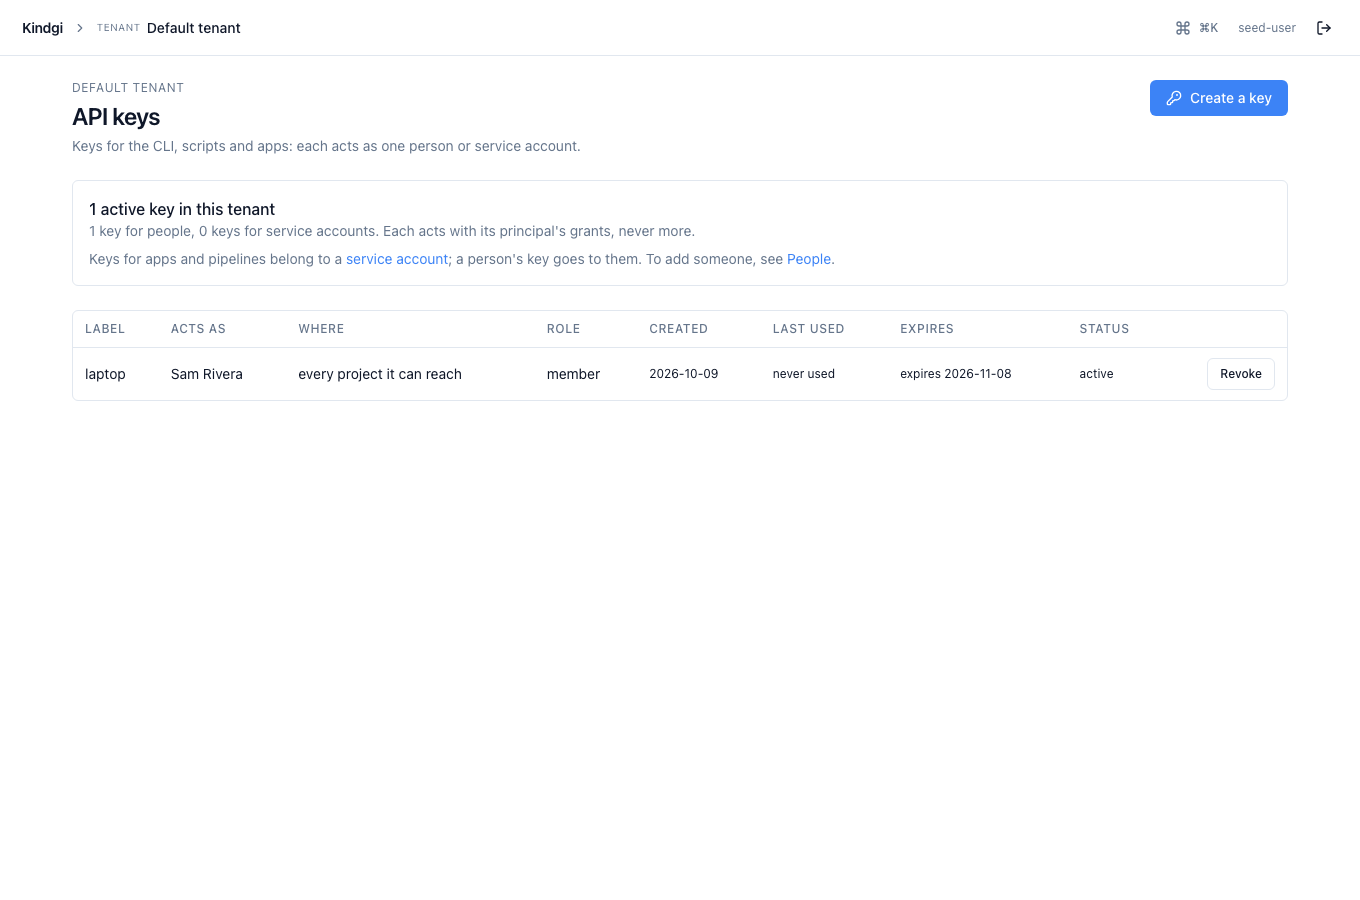
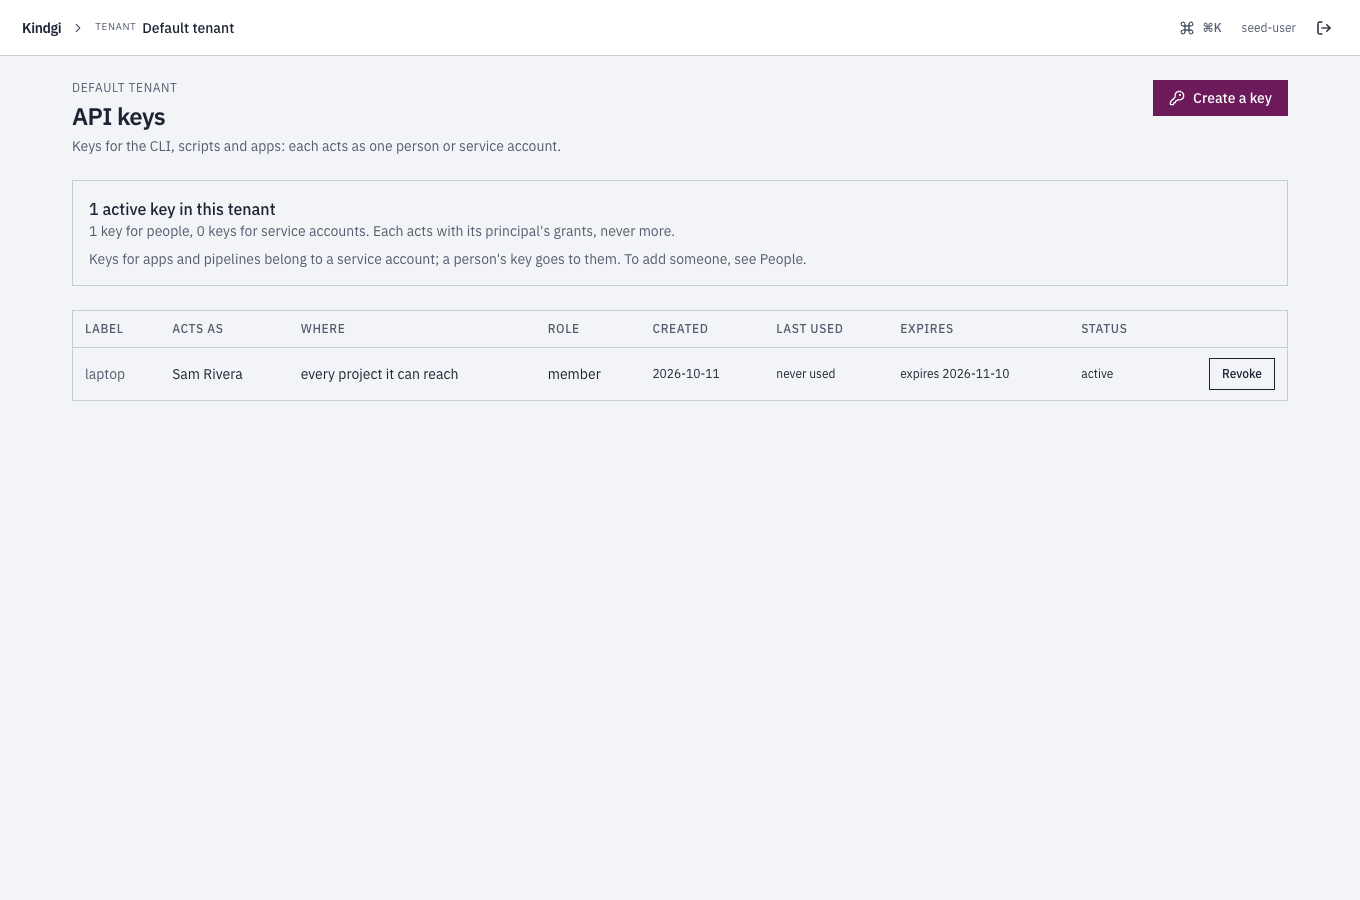
docs: the console's screenshots in its 0.1.6 look
The People, API keys and Service accounts pages and the seven sign-in
pages, retaken in the console's light theme. The People page's alt text
and bullet name its search, removed people and Columns; the emailed
link's shot is for an address the link is offered to.

diff --git a/site/src/content/docs/deploy/people-and-keys.md b/site/src/content/docs/deploy/people-and-keys.md
@@ -315,10 +315,13 @@ It's refused for yourself and for the seed user
   Copy button.
 
   ![The API keys page: one key, labelled laptop, acting as Sam Rivera with the member role, never used, expiring a month after it was made, with a Revoke button.](../../../assets/people/api-keys.png)
-- **People** (tenant admins): **Add a person**, each person's roles in words,
-  making or unmaking a tenant admin, a key for them, and removing them.
+- **People** (tenant admins): **Add a person**, each person's access in words
+  (what they were granted directly: tenant admin, a project or team role, the
+  reviewer roster), making or unmaking a tenant admin, a key for them, and
+  removing them. A search box, **People who were removed** and **Columns**
+  narrow the list.
 
-  ![The People page: the seed user and one person added by email, each with their active keys and when they were added, and an Add a person button.](../../../assets/people/people.png)
+  ![The People page: a search box, a People who were removed checkbox and a Columns button; the seed user (admin, reviewer) and Ann, added by email (no role yet), each with their access, active keys, when they were last active and when they were added; and an Add a person button.](../../../assets/people/people.png)
 - **Service accounts** (tenant admins): create one with its grants, change
   them, make it a key, unregister it.
 

diff --git a/site/src/content/docs/guides/sso/sign-in.md b/site/src/content/docs/guides/sso/sign-in.md
@@ -42,7 +42,7 @@ workspace:** (the choice lasts five minutes).
 **Email me a sign-in link** sends a link to your address. The page answers the
 same for any email:
 
-![Check your email: if pat@acme-live.example can sign in here, a sign-in link is on its way. It works once and lasts 10 minutes.](../../../../assets/sso/sign-in-check-your-email.png)
+![The sign-in page for sam@acme-mail.example: Continue with Google, Continue with Microsoft and Continue with GitHub, then Check your email: if sam@acme-mail.example can sign in here, a sign-in link is on its way. It works once and lasts 10 minutes.](../../../../assets/sso/sign-in-check-your-email.png)
 
 The link opens a page that says which email it signs you in as. Nothing
 happens until you choose **Continue as** your email: mail scanners open links
